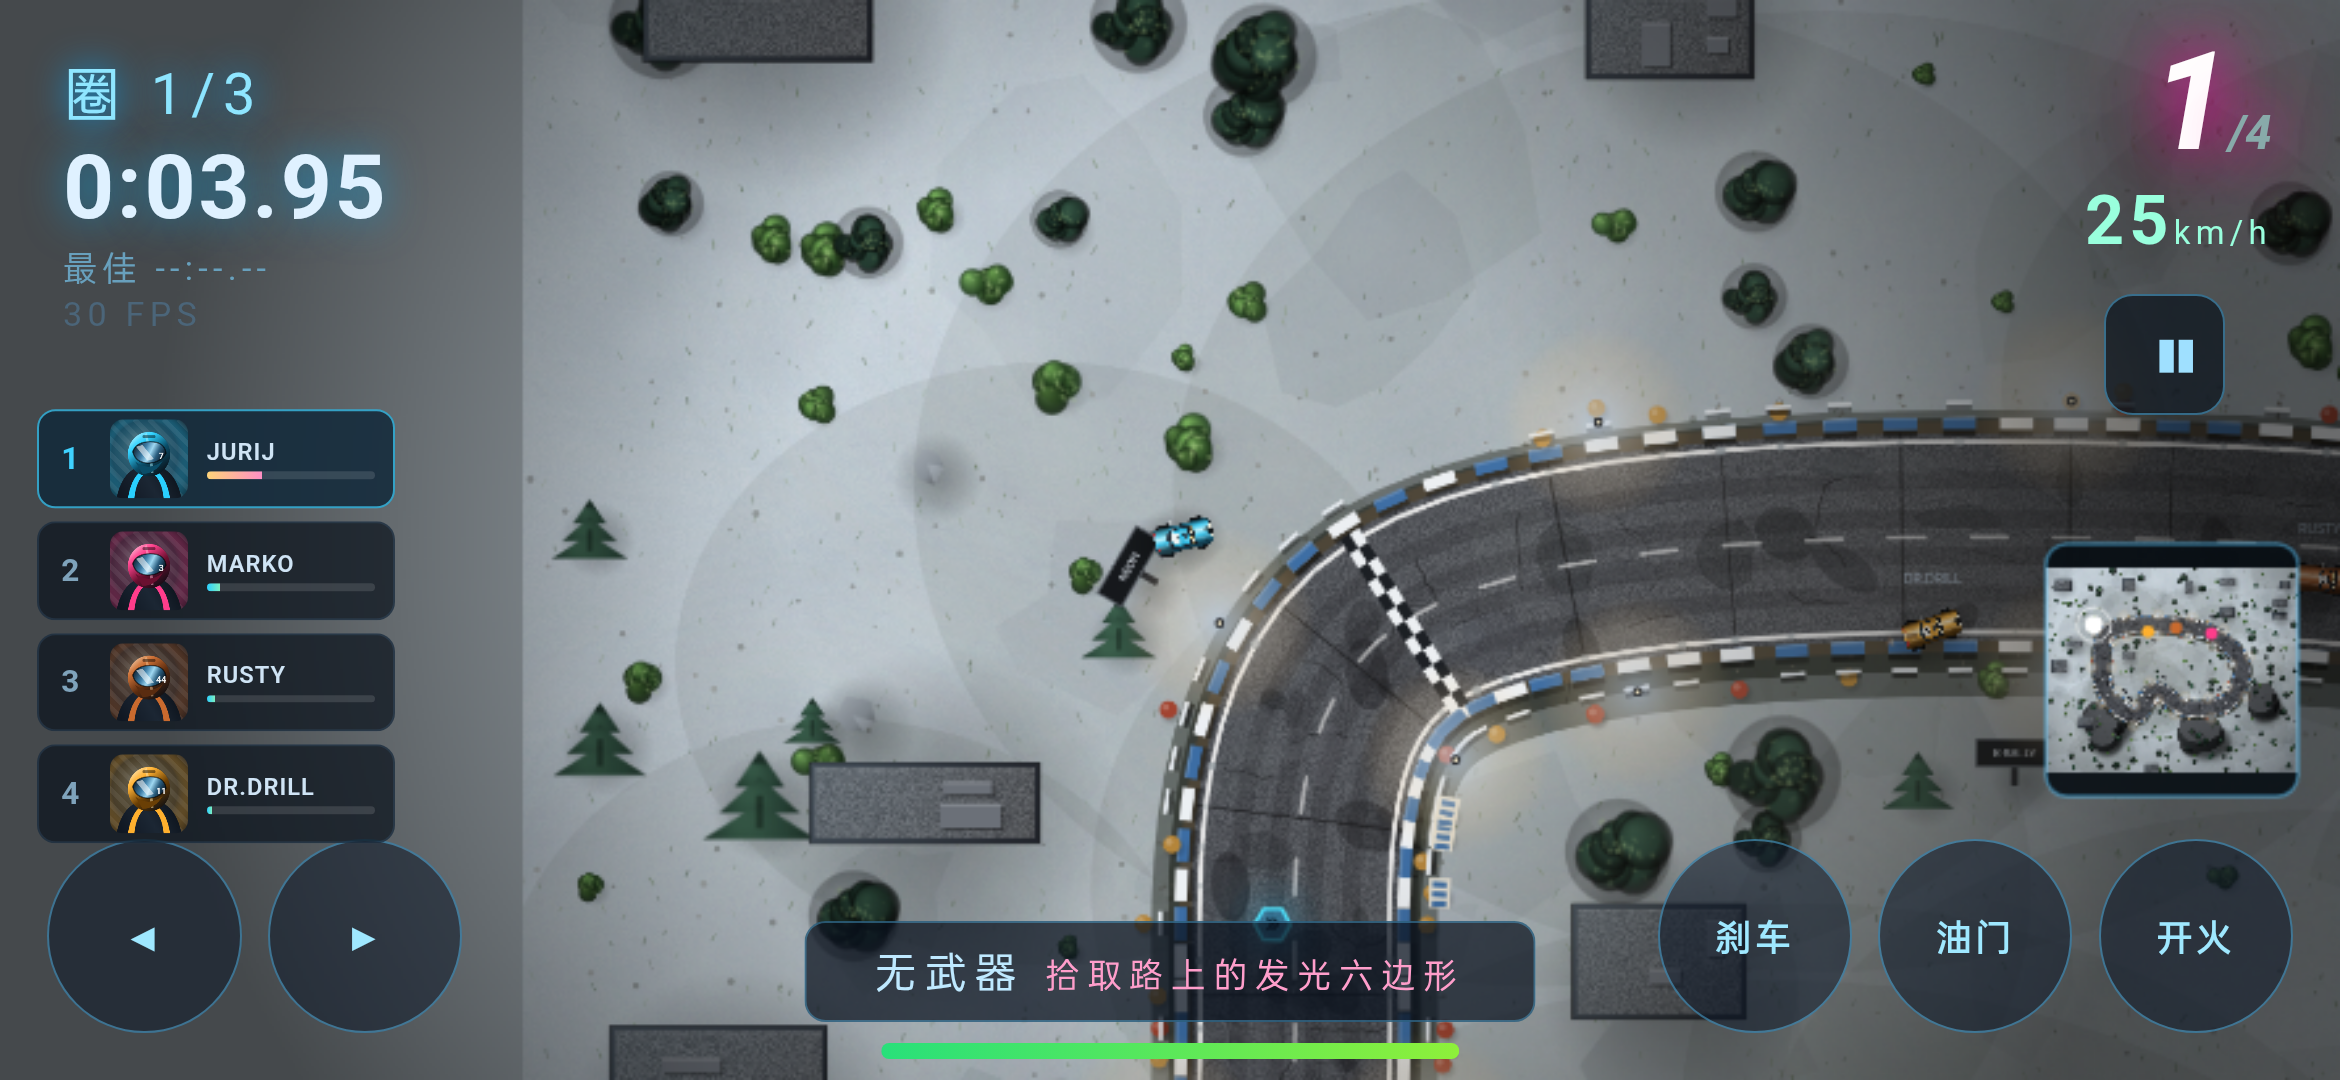
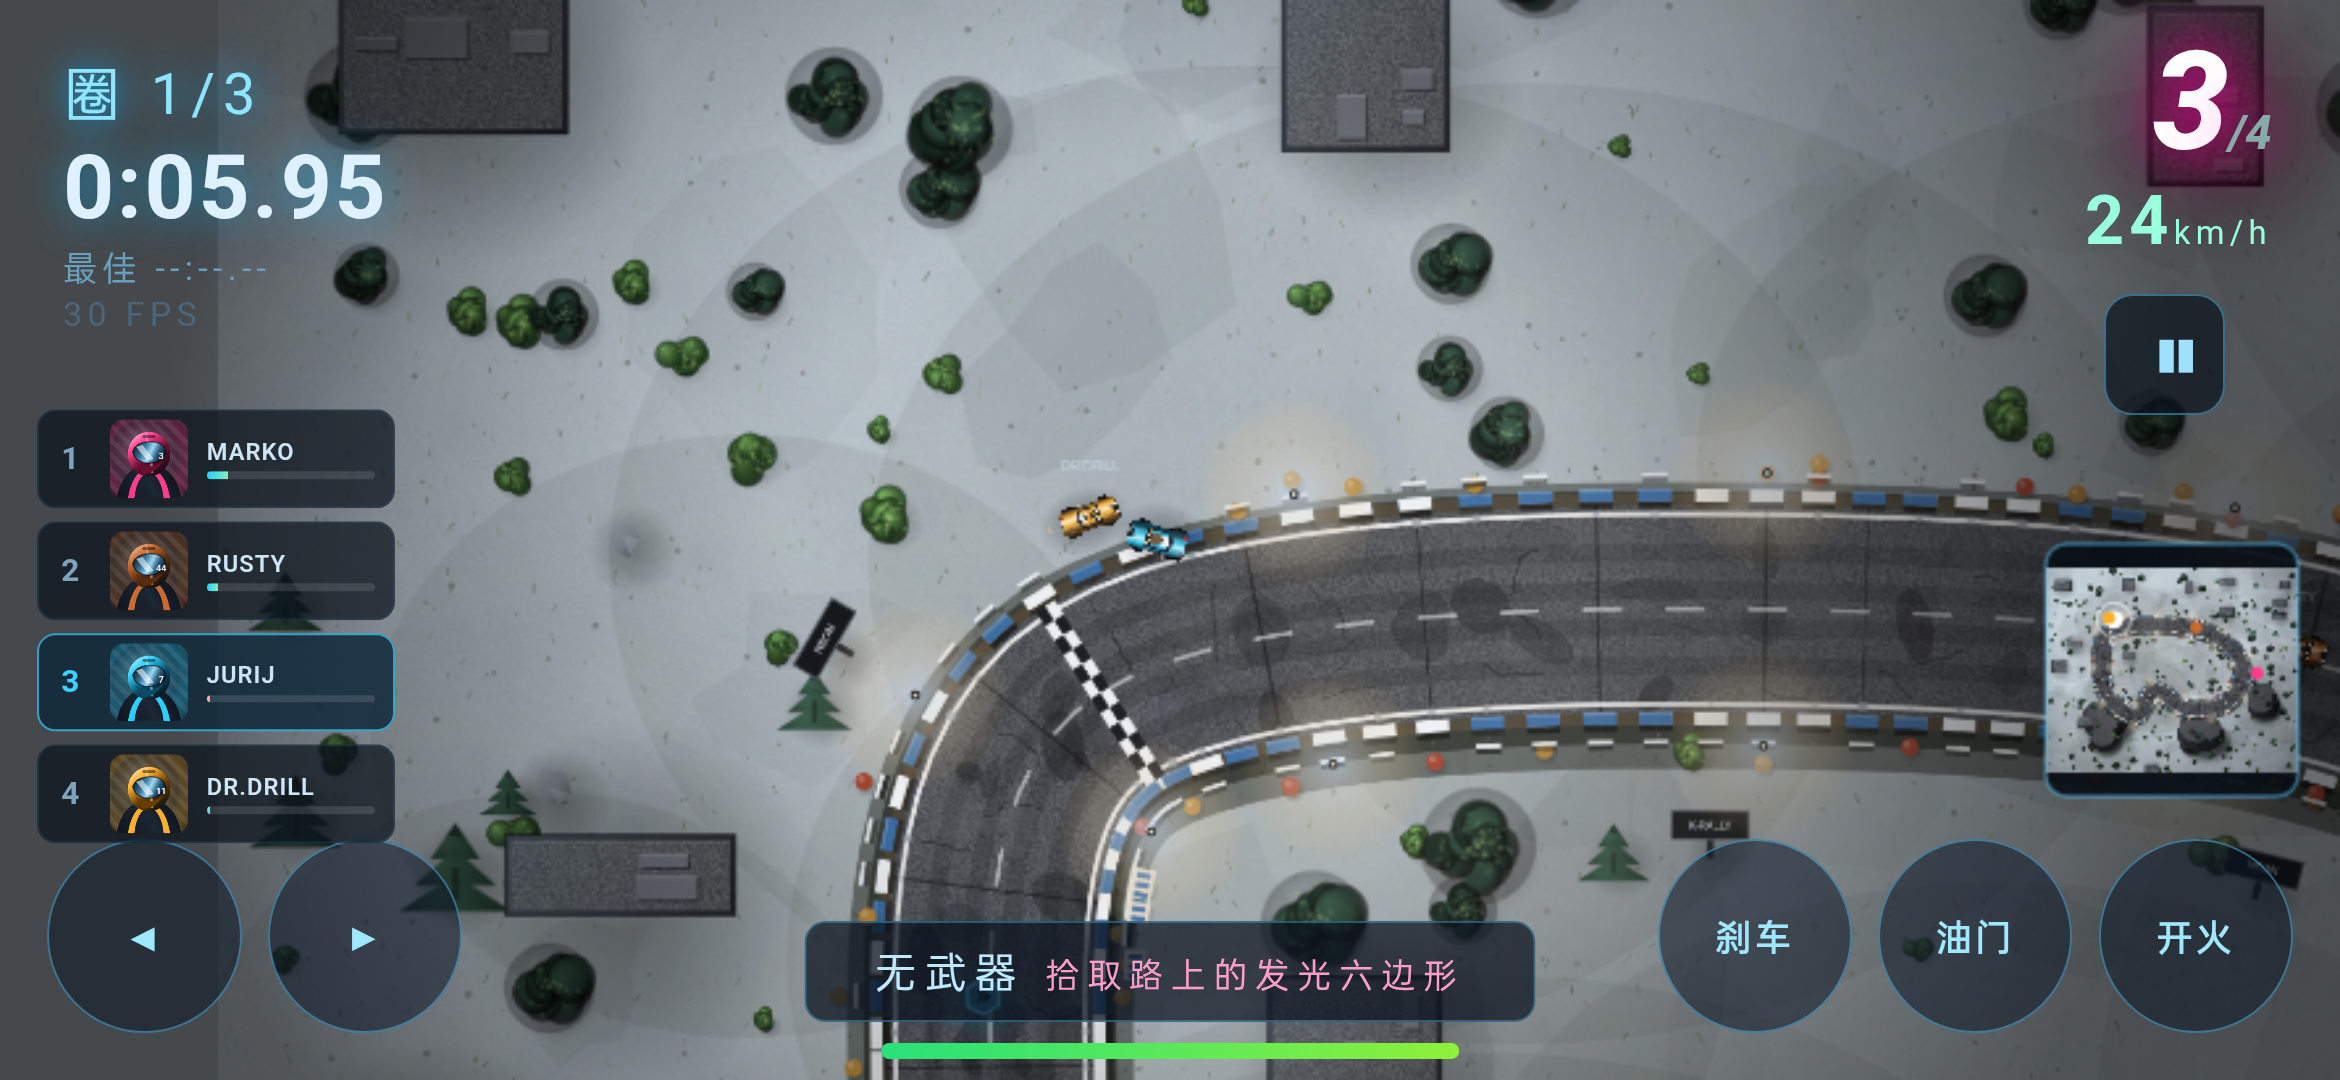
feat(physics): per-theme grip with real slip model; snow traction loss and spray; HD map tiers (desktop 1.5x)

diff --git a/js/game.js b/js/game.js
@@ -187,6 +187,9 @@
       this.thrust = 0;
       this.drift = 0;
       this.px = this.x; this.py = this.y;
+      this.velAngle = this.angle;      // 实际速度方向（与车头方向的差 = 滑移）
+      this.slip = 0;
+      this.grip = G.surfaceGrip || 1;  // 路面抓地力（雪地 0.52）
       this.lateralBias = rand(-0.45, 0.45);
     }
 
@@ -198,17 +201,20 @@
       const halfW = track.width / 2;
       const offroad = Math.abs(near.lateral) > halfW * 0.92;
 
-      // 转向
+      // 转向（低抓地路面转向更迟滞）
       const steerInput = input.steer;
       const speedFactor = clamp(1 - this.speed / (this.maxSpeed * 1.6), 0.35, 1);
-      this.angle += steerInput * 2.9 * dt * speedFactor * this.handling * (offroad ? 0.7 : 1);
+      const grip = this.grip;
+      const steerRate = 2.9 * (0.72 + 0.28 * grip);
+      this.angle += steerInput * steerRate * dt * speedFactor * this.handling * (offroad ? 0.7 : 1);
 
       // 加速 / 刹车
       let accel = 0;
       if (this.stun > 0) accel = -60;
       else {
-        accel = input.gas ? this.accelStat : -90;
-        if (input.brake) accel -= 520;
+        // 低抓地路面起步/加速也更弱（打滑损失）
+        accel = input.gas ? this.accelStat * (0.60 + 0.40 * grip) : -90;
+        if (input.brake) accel -= 520 * (0.55 + 0.45 * grip);   // 雪地刹车距离更长
       }
       if (this.boost > 0) { accel += 520; this.boost -= dt; }
 
@@ -217,13 +223,21 @@
       this.speed -= this.speed * (offroad ? 2.4 : 0.55) * dt;
       this.speed = clamp(this.speed, offroad ? -60 : -150, maxSpeed);
 
-      // 侧滑（漂移视觉）
-      this.drift = lerp(this.drift, offroad ? 0.35 : Math.abs(steerInput) * 0.55 * (this.speed / this.maxSpeed), dt * 6);
+      // 速度方向向车头收敛：抓地力越低越慢 → 产生滑移
+      const conv = grip * (offroad ? 5.0 : 9.0);
+      const dAng = wrapAngle(this.angle - this.velAngle);
+      this.velAngle += dAng * Math.min(1, conv * dt);
+      if (Math.abs(this.speed) < 45) this.velAngle = this.angle;
+      this.slip = clamp(wrapAngle(this.angle - this.velAngle), -1.0, 1.0);
 
-      // 位移
+      // 滑移视觉强度
+      const slipAmt = Math.min(1, Math.abs(this.slip) * 2.2);
+      this.drift = lerp(this.drift, offroad ? 0.35 : Math.max(slipAmt * 0.9, Math.abs(steerInput) * 0.5 * (this.speed / this.maxSpeed)), dt * 6);
+
+      // 位移（沿实际速度方向）
       this.px = this.x; this.py = this.y;
-      this.x += Math.cos(this.angle) * this.speed * dt;
-      this.y += Math.sin(this.angle) * this.speed * dt;
+      this.x += Math.cos(this.velAngle) * this.speed * dt;
+      this.y += Math.sin(this.velAngle) * this.speed * dt;
 
       // 进度 / 圈数（用累计里程判定，避免 s 跳变误判）
       this.prevS = this.s;
@@ -291,10 +305,21 @@
         }
       }
 
-      // 拖尾粒子
-      if (Math.random() < this.drift * 0.9) {
-        G.particles.push({ x: this.x, y: this.y, vx: rand(-20, 20), vy: rand(-20, 20), life: 0.5, max: 0.5,
-          r: rand(2, 5), color: offroad ? '120,90,60' : '160,200,255' });
+      // 拖尾粒子（雪地扬雪 / 泥地扬尘 / 路面火花）
+      const snowy = this.grip < 0.7 && !offroad;
+      const rate = this.drift * (snowy ? 1.5 : 0.9);
+      if (Math.random() < rate) {
+        const col = snowy ? '238,246,255' : (offroad ? '120,90,60' : '160,200,255');
+        G.particles.push({ x: this.x, y: this.y, vx: rand(-26, 26), vy: rand(-26, 26),
+          life: snowy ? 0.62 : 0.5, max: snowy ? 0.62 : 0.5,
+          r: rand(2, snowy ? 6.5 : 5), color: col });
+      }
+      // 雪地：明显打滑时在车后额外喷一团雪
+      if (snowy && Math.abs(this.slip) > 0.25 && Math.abs(this.speed) > 140 && Math.random() < 0.5) {
+        const bx = this.x - Math.cos(this.velAngle) * 18;
+        const by = this.y - Math.sin(this.velAngle) * 18;
+        G.particles.push({ x: bx, y: by, vx: rand(-40, 40), vy: rand(-40, 40),
+          life: 0.75, max: 0.75, r: rand(4, 9), color: '245,250,255' });
       }
       if (this.stun > 0) this.stun -= dt;
     }
@@ -509,7 +534,15 @@
       try {
         const defIdx = (trackIdx == null ? G.selectedTrack : trackIdx);
         const defTheme = (TRACKS[defIdx] && TRACKS[defIdx].theme != null) ? TRACKS[defIdx].theme : defIdx;
-        G.mapCache[mapKey] = Terrain.build(track, defTheme);
+        // 按设备分档：桌面 1.5× 烘焙 / 手机 1×；?hd=2 可手动指定
+        const isMobileDev = /Android|iPhone|iPad|Mobile/i.test(navigator.userAgent) ||
+          (typeof matchMedia === 'function' && matchMedia('(pointer: coarse)').matches);
+        const hdParam = parseFloat((/hd=([\d.]+)/.exec(location.search) || [])[1]);
+        const mapScale = hdParam || (isMobileDev ? 1 : 1.5);
+        const mapDetail = isMobileDev ? 1 : 1.35;
+        G.mapCache[mapKey] = Terrain.build(track, defTheme, { scale: mapScale, detail: mapDetail });
+        G.mapScale = mapScale;
+        G.surfaceGrip = (typeof Terrain.gripOf === 'function') ? Terrain.gripOf(defTheme) : 1;
       } catch (e) {
         G.mapCache[mapKey] = null;
         window.__MAPERR = (e && e.message) + ' | ' + ((e && e.stack) ? e.stack.split('\n')[1] : '');
@@ -1068,7 +1101,11 @@
       fpsShown = Math.round(fpsFrames / fpsAcc);
       fpsAcc = 0; fpsFrames = 0;
       const el = document.getElementById('fps');
-      if (el) el.textContent = fpsShown + ' FPS';
+      if (el) {
+        let txt = fpsShown + ' FPS';
+
+        el.textContent = txt;
+      }
     }
     try {
       update(dt);
@@ -1270,7 +1307,8 @@
       for (let i = 0; i < tiles.length; i++) {
         const t = tiles[i];
         if (t.x > right || t.x + t.w < left || t.y > bottom || t.y + t.h < top) continue;
-        ctx.drawImage(t.canvas, t.x, t.y);
+        // 瓦片位图可能是高清的（S>1），必须按世界尺寸绘制
+        ctx.drawImage(t.canvas, t.x, t.y, t.w, t.h);
       }
     }
 

diff --git a/js/terrain.js b/js/terrain.js
@@ -36,6 +36,7 @@ const Terrain = (() => {
 
   const THEMES = [
     { // 0 夜间海港
+      grip: 1,
       grass: '#2c3a26', grassDark: '#1e2a1a', grassLight: '#3a4a30',
       dirt: '#4a3d2c', asphalt: '#33363c', asphaltDark: '#26282d', asphaltLight: '#41454d',
       curbA: '#b6332f', curbB: '#d9d5cc', line: '#e8e4d8',
@@ -44,6 +45,7 @@ const Terrain = (() => {
       lamp: 'rgba(255,214,150,0.55)', rim: '#c8ccd2',
     },
     { // 1 荒漠夜路
+      grip: 0.94,
       grass: '#4a3f2e', grassDark: '#3a3122', grassLight: '#5a4c38',
       dirt: '#6a583f', asphalt: '#3a3b3e', asphaltDark: '#2b2c2f', asphaltLight: '#494a4e',
       curbA: '#c07a2a', curbB: '#ddd6c4', line: '#eee6d2',
@@ -52,6 +54,7 @@ const Terrain = (() => {
       lamp: 'rgba(255,190,120,0.5)', rim: '#d8cfc0',
     },
     { // 2 雪山
+      grip: 0.52,
       grass: '#c9d4dc', grassDark: '#a8b6c2', grassLight: '#e2ebf2',
       dirt: '#8f9aa3', asphalt: '#3c4149', asphaltDark: '#2e323a', asphaltLight: '#4a5058',
       curbA: '#3b6ea8', curbB: '#f2f6fa', line: '#ffffff',
@@ -60,6 +63,7 @@ const Terrain = (() => {
       lamp: 'rgba(210,230,255,0.55)', rim: '#e8eef4',
     },
     { // 3 沙漠
+      grip: 0.86,
       grass: '#b09163', grassDark: '#9c7f54', grassLight: '#c4a878',
       dirt: '#8d7148', asphalt: '#43413c', asphaltDark: '#33312d', asphaltLight: '#53504a',
       curbA: '#c2552e', curbB: '#efe3c8', line: '#f6efd8',
@@ -68,6 +72,7 @@ const Terrain = (() => {
       lamp: 'rgba(255,200,120,0.45)', rim: '#e6d9bf',
     },
     { // 4 丛林
+      grip: 1,
       grass: '#25472a', grassDark: '#193520', grassLight: '#2f5c34',
       dirt: '#4a3a24', asphalt: '#2f3334', asphaltDark: '#23262a', asphaltLight: '#3c4142',
       curbA: '#c8a12e', curbB: '#e8e2c8', line: '#e4e2ce',
@@ -76,6 +81,7 @@ const Terrain = (() => {
       lamp: 'rgba(200,255,170,0.35)', rim: '#cfe0c4',
     },
     { // 5 集装箱码头
+      grip: 1,
       grass: '#3a3a34', grassDark: '#2c2c27', grassLight: '#4a4a42',
       dirt: '#5a5145', asphalt: '#3f4247', asphaltDark: '#303338', asphaltLight: '#4e5258',
       curbA: '#d8a021', curbB: '#d5d2c8', line: '#efeade',
@@ -84,6 +90,7 @@ const Terrain = (() => {
       lamp: 'rgba(255,230,160,0.5)', rim: '#d6dadd',
     },
     { // 6 红岩峡谷
+      grip: 0.92,
       grass: '#7a3b2a', grassDark: '#5e2c20', grassLight: '#9a4d36',
       dirt: '#8a4a2e', asphalt: '#3d3a37', asphaltDark: '#2e2c29', asphaltLight: '#4b4744',
       curbA: '#d9541f', curbB: '#f0e0c8', line: '#f6ead4',
@@ -92,6 +99,7 @@ const Terrain = (() => {
       lamp: 'rgba(255,170,90,0.5)', rim: '#e8cdb4',
     },
     { // 7 秋日林道
+      grip: 0.88,
       grass: '#4a3a1c', grassDark: '#392c14', grassLight: '#5e4a24',
       dirt: '#6a5228', asphalt: '#37373a', asphaltDark: '#29292c', asphaltLight: '#454548',
       curbA: '#c86a1e', curbB: '#e8dcbc', line: '#f4e8c8',
@@ -1050,5 +1058,11 @@ const Terrain = (() => {
     };
   }
 
-  return { build, THEMES };
+  // 路面抓地力（雪地 / 沙地更低）
+  function gripOf(themeIdx) {
+    const T = THEMES[themeIdx % THEMES.length];
+    return (T && typeof T.grip === 'number') ? T.grip : 1;
+  }
+
+  return { build, THEMES, gripOf };
 })();

diff --git a/CHANGELOG.md b/CHANGELOG.md
@@ -1,18 +1,23 @@
 # 更新日志
 
+## v0.6.0 — 雪地打滑物理 / 高清地图分档
+
+### 路面抓地力（新物理）
+- 每个地貌有自己的抓地系数：雪地 **0.52**、荒漠 0.86 / 0.88、沙漠 0.86、其余 1.0。
+- 车辆现在区分**车头方向**与**实际速度方向**：速度方向以 `grip × 9 /s` 的速度向车头收敛，抓地力低就收敛慢 → 真实滑移。
+- 雪地：转向更迟滞、刹车距离更长、加速更弱（打滑损失），转弯会明显甩尾。
+- 滑移时车后喷雪（雪地）/ 扬尘（草地）/ 火花（路面）。
+- 数值验证：同样打方向，柏油最大滑移 10.2°，雪地 16.7°。
+
+### 高清地图分档
+- 桌面默认 **1.5×** 烘焙 + 1.35× 细节；手机保持 1× / 0.45× 细节。
+- `?hd=2` 可手动指定倍率（内存换清晰度）。
+- 修复高清瓦片绘制尺寸错误（之前按 1× 铺开 1.5× 的位图，画面出现大块拼接痕）。
+
+
 ## v0.5.2 — 应用图标
 
 - 新增**原创应用图标**：倾斜的车顶号码牌「7」+ 方格旗，深色背景。之前应用用的是安卓默认机器人图标。
 - 提供 5 档密度（48/72/96/144/192），Manifest 设置 `android:icon` 与 `android:roundIcon`。
 - 网页版增加 favicon。
 - 原作图标（`KRally.mif` 内的 SVG）**未使用**：属 Infinite Dreams 商标/美术，MIT 项目引用会有版权问题；图标为原创设计。
-
-
-## v0.5.1 — 拉力赛车 / 岩台地形 / 中文台词
-
-### 车辆
-- 车型改为**拉力赛样式**：车顶四联灯组、车顶号码牌、顶置进气口、泥挡、大颗粒越野胎、赞助商拉花、前护杠。
-- 默认车辆尺寸 **×0.65**（更接近原作的取景），可用 `?cscale=0.8` 临时覆盖。
-
-### 地形
-- 新增**岩台 / 悬崖**层：顶面 + 侧壁 + 投影，成组分布（每图 3–5 个岩群）。
